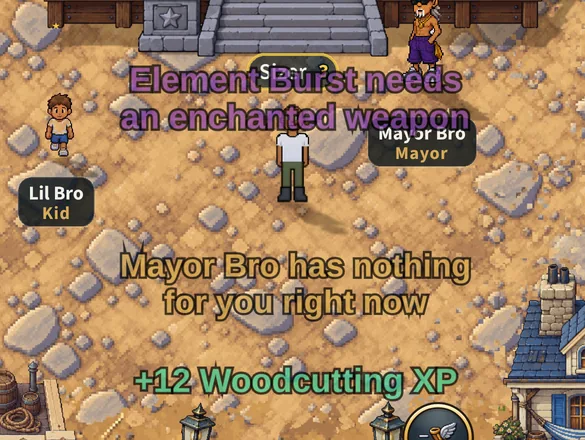
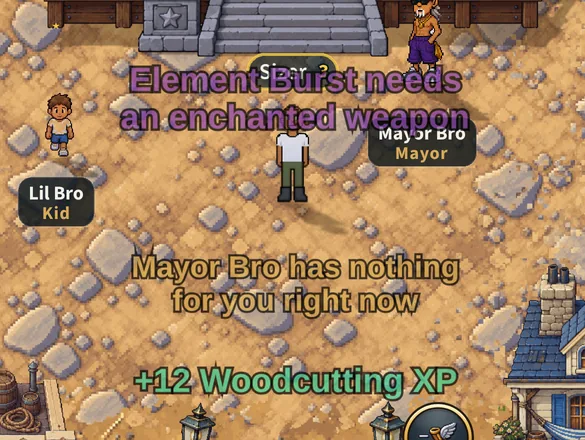
Damage numbers and messages are one size on the screen, whatever the dashboard does (v2.3.3192)
Owner, told the numbers did shrink with the dashboard up and offered a
fixed size like the name plates: "Yes do fixed size instead".

Every popup's size and every offset from the spot it was pushed at (lift,
stack, climb, mark, gap, wrap, edge margin) is now in popup px, drawn x
Z = POPUP_ZOOM / the world's scale each frame (popupZoomK). POPUP_ZOOM
0.606 is the QA phone's scale with the dashboard folded, where every popup
size was tuned, so nothing changes there: a plain hit is 24.9 CSS px tall
folded and now 24.9 with the dashboard up too (was 19.0), a message the
same, stacks the same distance apart. A wrapped line is also capped at 0.82
of the screen's CSS width (msgWrapW). ?popupworld draws them in the world
as before, to compare.

mp-dmgsize (49 checks, all pass) asserts a hit the same CSS height at both
zooms, a message as tall as it, and two stacked hits the same distance
apart; its at-rest reads keep the popup's screen factor (_z).

Claude-Session: https://claude.ai/code/session_01HpQxWvcvVmTrZKPpqFCEwc

diff --git a/src/rendering/systems/effectsRenderer.js b/src/rendering/systems/effectsRenderer.js
@@ -1054,11 +1054,41 @@ function isDamagePopup(dmg, t) {
    off whatever is under it, the stacking, the climb -- follows a message's
    the same way (`_k`, DMG_SCALE, for both).
 
-   STILL WORLD PIXELS, AS THE NUMBERS ARE.  The owner read the numbers as not
-   changing with the zoom; they do -- the dashboard folded draws the world
-   1.31x, the plain hit above 19.0 -> 24.9 CSS px -- but a message now changes
-   with it exactly as they do, so the two are the same size at every zoom. */
+   The owner read the numbers as not changing with the zoom; they did -- they
+   were drawn in the world, and the dashboard folded draws it 1.31x, the plain
+   hit above 19.0 -> 24.9 CSS px.  So, asked, the owner chose ONE SIZE ON THE
+   SCREEN for both: POPUP_ZOOM below. */
 const MSG_FONT_PX = DMG_FONT_PX * DMG_SCALE;
+/* ═══ v2.3.3192: ...AND ONE SIZE ON THE SCREEN, WHATEVER THE ZOOM ═══
+   Owner, offered numbers and messages pinned to one size on the screen like
+   the name plates: "Yes do fixed size instead".
+
+   Every size and distance in this popup code is in world px AS DRAWN AT
+   POPUP_ZOOM: the world's scale on the 390 x 844 phone with the dashboard
+   folded (VIEW_OUT 0.77 x its 806 px canvas / 1024 -- the bro 64 px tall,
+   v2.3.3020), the zoom every one of them was tuned at (v2.3.3033): a plain
+   hit's type 22.3 CSS px, a crit's 40.3.  Each frame the world's own scale is
+   divided back out -- `Z` = POPUP_ZOOM / S._worldScaleX, as the name plates
+   (v2.3.2513) and the chat bubble (v2.3.2247) do theirs -- so with the
+   dashboard up (scale 0.4625) a popup is drawn 1.31x the world px and is the
+   same on the screen, and on a bigger phone, sideways or in the desktop shell
+   it is that CSS size too.  Z scales a popup's size AND everything measured
+   from where it was pushed -- its lift, its place in a stack, its climb, its
+   mark and the gap before it, its wrap and its margin from the screen's edge
+   -- so it looks at every zoom as it does at POPUP_ZOOM; only the spot it was
+   pushed at (over a bar, over your head) stays the world's.  `?popupworld`
+   draws them in the world as before, to compare. */
+const POPUP_ZOOM = 0.606;
+const POPUP_Z_MIN = 0.25, POPUP_Z_MAX = 3;   /* a sanity bound (a near-zero scale from a mid-rebuild frame), never a design term */
+const POPUP_WORLD = (() => {
+  try { return typeof location !== 'undefined' && /[?&]popupworld\b/.test(location.search || ''); }
+  catch (e) { return false; }
+})();
+function popupZoomK(S) {
+  const w = S && S._worldScaleX;
+  if (POPUP_WORLD || !(w > 0.01)) return 1;
+  return Math.min(POPUP_Z_MAX, Math.max(POPUP_Z_MIN, POPUP_ZOOM / w));
+}
 /* ═══ v2.3.3192: ...AND A LONG ONE WRAPS, NEVER SHRINKS ═══
    At that size a long message is wider than a phone: "Element Burst needs an
    enchanted weapon" is ~750 world px, a "📢" announcement (60 characters)
@@ -1067,14 +1097,23 @@ const MSG_FONT_PX = DMG_FONT_PX * DMG_SCALE;
    broken at its spaces into as few lines as fit, as even as they can be,
    centred (msgLines) -- the type stays the numbers' size.  520 is about 26
    characters a line, so the common ones keep one ("Return to Mayor Bro",
-   "Requires Woodcutting Lv 10"), and at most MSG_MAX_LINES.  And it is kept
-   inside the view, MSG_EDGE_PX clear of its sides (_updateDamageNumbers): over
-   you against a dungeon's wall the camera stops following, and half of a
-   centred message would be off the screen. */
+   "Requires Woodcutting Lv 10"), and at most MSG_MAX_LINES; on a narrower
+   screen no wider than MSG_WRAP_SCREEN of it (popups being one CSS size, a
+   320 px phone gets ~21 characters a line).  And it is kept inside the view,
+   MSG_EDGE_PX clear of its sides (_updateDamageNumbers): over you against a
+   dungeon's wall the camera stops following, and half of a centred message
+   would be off the screen. */
 const MSG_WRAP_W = 520;
+const MSG_WRAP_SCREEN = 0.82;
 const MSG_MAX_LINES = 4;
 const MSG_EDGE_PX = 12;
-if (typeof window !== 'undefined') window.__btMsgFont = { px: MSG_FONT_PX, wrap: MSG_WRAP_W, edge: MSG_EDGE_PX };   /* QA: mp-dmgsize */
+if (typeof window !== 'undefined') window.__btMsgFont = { px: MSG_FONT_PX, wrap: MSG_WRAP_W, edge: MSG_EDGE_PX, zoom: POPUP_ZOOM, world: POPUP_WORLD };   /* QA: mp-dmgsize */
+/* The widest a message may be laid out, in popup px: MSG_WRAP_W, or less where
+   the screen (its CSS width = the view x the world's scale) is narrower. */
+function msgWrapW(S) {
+  const cssW = S && S._viewW > 0 && S._worldScaleX > 0.01 ? S._viewW * S._worldScaleX : 0;
+  return cssW > 0 && !POPUP_WORLD ? Math.min(MSG_WRAP_W, MSG_WRAP_SCREEN * cssW / POPUP_ZOOM) : MSG_WRAP_W;
+}
 /* `words` laid in `n` lines whose longest is as short as it can be, by
    characters (within one message its letters are near enough one width), each
    line at least one word.  A message is a dozen words at most, so every way of
@@ -1103,18 +1142,18 @@ function msgLines(words, n) {
   return lines;
 }
 /* Wrap a message's freshly made Text / BitmapText (at its resting scale, so
-   `width` is world px) if it is wider than MSG_WRAP_W.  Returns its lines. */
-function wrapMessage(text, plain) {
-  if (!(text.width > MSG_WRAP_W) || plain.indexOf('\n') >= 0) return 1;
+   `width` is popup px) if it is wider than `maxW` (msgWrapW).  Returns its lines. */
+function wrapMessage(text, plain, maxW) {
+  if (!(text.width > maxW) || plain.indexOf('\n') >= 0) return 1;
   const words = plain.split(' ').filter(Boolean);
   const most = Math.min(MSG_MAX_LINES, words.length);
   if (most < 2) return 1;   /* one long word: nowhere to break it */
   /* centred lines -- the glyph atlas's text is made left-aligned; one line is the same either way */
   if (text.style && text.style.align !== 'center') text.style.align = 'center';
-  let n = Math.max(2, Math.min(most, Math.ceil(text.width / MSG_WRAP_W)));
+  let n = Math.max(2, Math.min(most, Math.ceil(text.width / maxW)));
   for (;; n++) {
     text.text = msgLines(words, n).join('\n');
-    if (n >= most || text.width <= MSG_WRAP_W) return n;
+    if (n >= most || text.width <= maxW) return n;
   }
 }
 /* v2.3.2212 (owner: "change the damage color to a light yellow when it's a
@@ -5114,6 +5153,9 @@ export class EffectsRenderer {
        Text).  Age-based cleanup below (1.5 s TTL) handles bounding by
        itself; with reasonable spawn rates we never hold more than a few
        dozen dmg numbers concurrently. */
+    /* v2.3.3192: one size on the screen (POPUP_ZOOM): every size and distance
+       below is in popup px, drawn x Z in the world. */
+    const Z = popupZoomK(S);
     for (let i = numbers.length - 1; i >= 0; i--) {
       const dmg = numbers[i];
       const age = (now - dmg.ts) / 1000;
@@ -5282,7 +5324,7 @@ export class EffectsRenderer {
         dmg._lines = 1;
         if (dmg._msg) {
           const _h1 = text.height;
-          const _n = wrapMessage(text, String(dmg.text == null ? '' : dmg.text));
+          const _n = wrapMessage(text, String(dmg.text == null ? '' : dmg.text), msgWrapW(S));
           if (_n > 1) {
             dmg._lines = _n;
             dmg._lift += Math.max(0, text.height - _h1) / 2;
@@ -5329,8 +5371,11 @@ export class EffectsRenderer {
            (50 px at 26, so a stack is still three deep in one frame).
            v2.3.3192: a popup stands as tall as its font times its lines, and a
            wide message reaches half its width to each side, so a neighbour
-           under either end of it counts. */
-        const myY = dmg.y - dmg._lift;
+           under either end of it counts.  And all of it is popup px: where
+           two popups stand in the WORLD is their spots plus Z x their offsets
+           (as they are drawn, below), every distance compared Z x, and the
+           offset kept in popup px again. */
+        const myY = dmg.y - Z * dmg._lift;
         const myH = fontSize * dmg._lines;
         /* v2.3.1347: the neighbor scan is O(n) per NEW popup (O(n²) in a
            burst). Past ~40 live popups the field is dense chaos where
@@ -5341,18 +5386,18 @@ export class EffectsRenderer {
           const o = numbers[j];
           if (!o._pixiText || o._pixiText.destroyed) continue;
           const pairSp = Math.max(SPACING, (myH + (o._fs || DMG_FONT_PX) * (o._lines || 1)) / 2 * (SPACING / DMG_FONT_PX));
-          if (Math.abs(o.x - dmg.x) > Math.max(60 * Math.max(1, pairSp / SPACING), ((dmg._w || 0) + (o._w || 0)) / 2)) continue;
+          if (Math.abs(o.x - dmg.x) > Z * Math.max(60 * Math.max(1, pairSp / SPACING), ((dmg._w || 0) + (o._w || 0)) / 2)) continue;
           const oAge = (now - o.ts) / 1000;
           if (oAge > 0.6) continue;
-          const oY = o.y + (o._stackOffset || 0) - (o._lift || 0) - oAge * (typeof o.rise === 'number' ? o.rise : 40 * (o._k || 1));
-          if (Math.abs(oY - myY) > 50 * Math.max(1, pairSp / SPACING)) continue;
+          const oY = o.y + Z * ((o._stackOffset || 0) - (o._lift || 0) - oAge * (typeof o.rise === 'number' ? o.rise : 40 * (o._k || 1)));
+          if (Math.abs(oY - myY) > Z * 50 * Math.max(1, pairSp / SPACING)) continue;
           hasNeighbor = true;
           if (oY < highestY) { highestY = oY; highestSp = pairSp; }
         }
         /* Clamp to <= 0: a neighbour sitting BELOW this popup's spawn
            would otherwise push the offset positive and re-open the exact
            hole this fix closes. */
-        dmg._stackOffset = hasNeighbor ? Math.min(0, (highestY - highestSp) - myY) : 0;
+        dmg._stackOffset = hasNeighbor ? Math.min(0, ((highestY - Z * highestSp) - myY) / Z) : 0;
         this.dmgLayer.addChild(text);
         this.dmgTexts.push(text);
         dmg._pixiText = text;
@@ -5383,6 +5428,8 @@ export class EffectsRenderer {
              the height, which the round badges never reach */
           const _wide = TIGHT_POPUP_ICONS.has(iconKey) ? (targetH * 1.5) / tex.width : Infinity;
           icon.scale.set(Math.min(targetH / tex.height, _wide));
+          /* v2.3.3192: its popup-px scale, drawn x Z each frame (below) */
+          icon._popupScale = icon.scale.x;
           this.dmgLayer.addChild(icon);
           dmg._pixiIcon = icon;
           /* v2.3.2996: QA -- which icons the numbers were actually drawn with
@@ -5422,6 +5469,10 @@ export class EffectsRenderer {
          (below); a message's is the plain number's, crit-flagged or not */
       const _icon = dmg._pixiIcon && !dmg._pixiIcon.destroyed ? dmg._pixiIcon : null;
       const _iconGap = Math.max(10, (dmg._base || (dmg.crit ? DMG_CRIT_FONT_PX : DMG_FONT_PX)) * 0.35) * (dmg._k || 1);   /* v2.3.3033: x the number's scale */
+      /* v2.3.3192: one size on the screen -- the mark x Z (POPUP_ZOOM), before
+         its width is read for the edge below; `_z` for QA (mp-dmgsize) */
+      dmg._z = Z;
+      if (_icon && _icon._popupScale) _icon.scale.set(_icon._popupScale * Z);
       /* ═══ v2.3.3192: A MESSAGE STAYS ON THE SCREEN ═══
          Kept MSG_EDGE_PX inside the view's sides by its resting width (`_w`,
          so the spawn pop does not shove it about) and its mark's: against a
@@ -5432,8 +5483,8 @@ export class EffectsRenderer {
          it is centred on it. */
       let _x = dmg.x;
       if (dmg._msg && dmg._w > 0 && S.camera && S._viewW > 0) {
-        const _left = dmg._w / 2 * (dmg.crit ? 1.1 : 1) + MSG_EDGE_PX;
-        const _right = _left + (_icon ? _iconGap + _icon.width : 0);
+        const _left = Z * (dmg._w / 2 * (dmg.crit ? 1.1 : 1) + MSG_EDGE_PX);
+        const _right = _left + (_icon ? Z * _iconGap + _icon.width : 0);
         const _lo = S.camera.x + _left, _hi = S.camera.x + S._viewW - _right;
         _x = _lo <= _hi ? Math.min(_hi, Math.max(_lo, _x)) : (_lo + _hi) / 2;
       }
@@ -5449,7 +5500,8 @@ export class EffectsRenderer {
          apart were 28 px apart for a 14 px digit, and at 1.75x the size would have
          been 28 px for a 26 px one -- touching.  Scaled, they keep their gap. */
       const rise = (typeof dmg.rise === 'number') ? dmg.rise : 40 * (dmg._k || 1);
-      text.y = dmg.y + (dmg._stackOffset || 0) - (dmg._lift || 0) - age * rise;   /* v2.3.3033: lifted by the bigger glyph's extra half height */
+      /* v2.3.3033: lifted by the bigger glyph's extra half height; v2.3.3192: every offset from the spot it was pushed at x Z */
+      text.y = dmg.y + Z * ((dmg._stackOffset || 0) - (dmg._lift || 0) - age * rise);
       /* Fade over 80% of ttl so longer-lived popups (kill messages with
          ttl=2.5) actually stay visible, not invisible most of their life.
          v2.3.3059: `hold` (s) -- full strength that long, then the fade over
@@ -5472,7 +5524,7 @@ export class EffectsRenderer {
       const critWiggle = dmg.crit ? Math.sin(age * 8) * 0.1 : 0;
       /* v2.3.1357: BitmapText popups render at a 2x bake scaled down —
          the pop/wiggle multiplies AROUND that base scale, not around 1. */
-      text.scale.set((text._bmpBaseScale || 1) * (1 + popBoost + critWiggle));
+      text.scale.set((text._bmpBaseScale || 1) * (1 + popBoost + critWiggle) * Z);   /* v2.3.3192: x Z, one size on the screen */
       if (_icon) {
         /* Place icon flush to the right of the text. Text anchor is
            (0.5, 0.5), so the right edge sits at text.x + text.width/2.
@@ -5481,7 +5533,7 @@ export class EffectsRenderer {
            fire-goblin hits ("32" reading as "3[magic]").  Stroked text
            extends a few px past text.width on iOS canvas rendering.
            (v2.3.3192: `_iconGap` is worked out above, for the edge too.) */
-        dmg._pixiIcon.x = text.x + text.width / 2 + _iconGap;
+        dmg._pixiIcon.x = text.x + text.width / 2 + Z * _iconGap;
         dmg._pixiIcon.y = text.y;
         dmg._pixiIcon.alpha = text.alpha;
       }
@@ -5489,7 +5541,10 @@ export class EffectsRenderer {
         /* Sub text sits after the icon if there is one, otherwise flush
            to the right edge of the main text.  Anchor is (0, 0.5) so
            setting .x places its left edge. */
-        const _subGap = Math.max(10, (text.style.fontSize || 21) * 0.35);
+        /* v2.3.3192: in popup px x Z, its own pop and wiggle -- it is classic
+           Text at its own size, so never the glyph atlas text's bake scale
+           (text.scale.x drew it a third of its size beside a BitmapText) */
+        const _subGap = Z * Math.max(10, (dmg._fs || DMG_FONT_PX) * 0.35);
         let subX = text.x + text.width / 2 + _subGap;
         if (dmg._pixiIcon && !dmg._pixiIcon.destroyed) {
           subX = dmg._pixiIcon.x + (dmg._pixiIcon.width || 0) + _subGap;
@@ -5497,7 +5552,7 @@ export class EffectsRenderer {
         dmg._pixiSub.x = subX;
         dmg._pixiSub.y = text.y;
         dmg._pixiSub.alpha = text.alpha;
-        dmg._pixiSub.scale.set(text.scale.x);
+        dmg._pixiSub.scale.set((1 + popBoost + critWiggle) * Z);
       }
     }
     /* Compact dmgTexts: drop refs to destroyed Text instances

diff --git a/docs/specs/damage-number-size.md b/docs/specs/damage-number-size.md
@@ -84,14 +84,35 @@ live Pixi objects: a plain hit 24.9 CSS px tall with the dashboard folded and
 19.0 with it up; "No mana!", "Quest Complete!" and "+30 XP" 14.3 and 10.9 --
 about 57% of the number, at both zooms.
 
-**The zoom.** The numbers DO change with the dashboard: they are drawn in the
+**The zoom.** The numbers DID change with the dashboard: they were drawn in the
 world, and folding the dashboard draws the world 1.31x bigger (scale 0.4625 ->
-0.6061), so a plain hit goes 19.0 -> 24.9 CSS px, as everything in the world
-does -- which is why it reads as not changing. The messages did exactly the
-same, just smaller. So the answer is to make the messages the numbers' size in
-the world: then they are the same size at every zoom. (Pinning both to one
-screen size, as the name plates are since v2.3.2513, would be a different
-change -- the numbers would stop growing with the world -- and was not asked for.)
+0.6061), so a plain hit went 19.0 -> 24.9 CSS px, as everything in the world
+does -- which is why it read as not changing. The messages did exactly the
+same, just smaller. The first cut of this change only made the messages the
+numbers' size in the world; told so, the owner asked for the other way: "Yes do
+fixed size instead".
+
+**One size on the screen.** Every popup -- number and message -- is now drawn
+at the size it has at `POPUP_ZOOM` 0.606, the world's scale on the QA phone with
+the dashboard folded (the bro 64 px tall, where every popup size here was
+tuned): a plain hit's type 22.3 CSS px, a crit's 40.3, whatever the dashboard
+does. Each frame the world's own scale is divided back out, `Z` =
+`POPUP_ZOOM` / `S._worldScaleX` (`popupZoomK`), as the name plates (v2.3.2513)
+and the chat bubble (v2.3.2247) do theirs. With the dashboard up (0.4625) a
+popup is drawn 1.31x the world px it had, so it is the same on the screen; on a
+bigger phone, sideways, or in the desktop shell it is that CSS size too. Z
+scales a popup's size AND everything measured from the spot it was pushed at:
+its lift, its place in a stack (the neighbour scan compares spots plus Z x
+offsets, and keeps the offset in popup px), its climb, its mark and the gap
+before it, the wrap width and the edge margin. Only the spot itself (over a
+monster's bar, over your head) stays the world's. `?popupworld` draws them in
+the world as before, to compare; `_z` on a popup record says what it was drawn
+at (QA).
+
+The wrap width is capped by the screen too (`msgWrapW`): popups being one CSS
+size, a line may take at most `MSG_WRAP_SCREEN` 0.82 of the canvas's CSS width
+(on the QA phone the cap is 528 popup px, so MSG_WRAP_W's 520 holds; a 320 px
+phone gets about 21 characters a line).
 
 **The rule.** Every popup that is not a damage number (`isDamagePopup` false) is a
 message, drawn at `MSG_FONT_PX` = `DMG_FONT_PX` x `DMG_SCALE` (36.75 world px),
@@ -127,7 +148,8 @@ smaller one's was, so it grows upward.
 
 | | Before | After |
 |---|---|---|
-| a message, folded / dashboard up (QA phone) | 14.3 / 10.9 CSS px | 24.9 / 19.0, the plain hit's |
+| a plain hit, folded / dashboard up (QA phone) | 24.9 / 19.0 CSS px | 24.9 / 24.9 (one size) |
+| a message, folded / dashboard up (QA phone) | 14.3 / 10.9 CSS px | 24.9 / 24.9, the plain hit's |
 | "Element Burst needs an enchanted weapon" | one line, 21 px | two lines, 36.75 px |
 | the E key's crit-flagged note | 38 px, wiggling | 36.75 px, wiggling |
 | a message at the view's edge | half off the screen | 12 px inside it |
@@ -161,9 +183,11 @@ smaller one's was, so it grows upward.
   grown; "Element Burst needs an enchanted weapon" in two even lines and a cut
   announcement wrapped, inside the wrap width, at the same size; a message at
   each edge of the view held 12 px inside it while a number is left where it is;
-  and with the dashboard up and folded (two zooms) "No mana!" exactly as tall on
-  the screen as a hit. Measurements are taken at rest (a read on the test box can
-  catch the spawn pop).
+  and with the dashboard up and folded (two zooms) a hit the SAME height on the
+  screen, "No mana!" exactly as tall as it, and two stacked hits the same
+  distance apart (one size on the screen). Measurements are taken at rest (a
+  read on the test box can catch the spawn pop), the popup's screen factor
+  `_z` kept in.
   Run against another build with `QA_DIST` it takes the "before".
 - `mp-elemhits` (the marks on a hit taken, now against the scaled cap the probe
   reports) and `mp-critpreview`.

diff --git a/CLAUDE.md b/CLAUDE.md
@@ -1356,12 +1356,18 @@ remnant to migrate server-side, not a mode to preserve.
       stays bigger); a long one WRAPS into even lines no wider than
       `MSG_WRAP_W` 520 world px (`msgLines`, `wrapMessage`), never smaller
       type, and grows upward; a message is held `MSG_EDGE_PX` 12 inside the
-      view (a number never moves); still WORLD px, so numbers and messages
-      alike grow 1.31x with the dashboard folded (the owner had read the
-      numbers as fixed); the stacking runs after the Text is made now (a
-      wrapped one's height); `mp-dmgsize` reads sizes AT REST (this box's
-      slow frames catch the spawn pop): damage-number-size.md "Messages as
-      big as the numbers".
+      view (a number never moves); and ONE SIZE ON THE SCREEN for numbers and
+      messages alike (the owner had read the numbers as fixed -- they grew
+      1.31x with the dashboard folded -- and chose "Yes do fixed size
+      instead"): every popup size and every offset from its spot (lift,
+      stack, climb, mark, gap, wrap, edge) is popup px drawn x `Z` =
+      `POPUP_ZOOM` 0.606 / `S._worldScaleX` (`popupZoomK`; the QA phone's
+      folded scale, where they were tuned: a plain hit 22.3 CSS px), like the
+      name plates; the spot stays the world's; a line no wider than 0.82 of
+      the screen (`msgWrapW`); `?popupworld` the world-px way; the stacking
+      runs after the Text is made now (a wrapped one's height); `mp-dmgsize`
+      reads sizes AT REST (this box's slow frames catch the spawn pop; `_z`
+      kept in): damage-number-size.md "Messages as big as the numbers".
   - Since v2.3.3034 A LOST CONNECTION IS NOTICED, AND NOTHING THE WORKER
     SETTLES IS LOST TO IT -- the owner: "Logs aren't going to the inventory
     after getting chopped, and points in point stat allocation menu weren't

diff --git a/docs/shots/msgsize.md b/docs/shots/msgsize.md
@@ -17,8 +17,9 @@ The words are in the game's own font, Source Sans 3.
 
 ## Dashboard up
 
-The world is drawn smaller with the dashboard up -- the numbers with it (24.9
--> 19.0 CSS px tall here), and the messages now exactly as they do.
+The world is drawn smaller with the dashboard up. Before, the numbers shrank
+with it (24.9 -> 19.0 CSS px tall here) and the messages further; now both are
+ONE SIZE ON THE SCREEN, exactly as tall as with the dashboard folded.
 
 | Before | After |
 |---|---|
